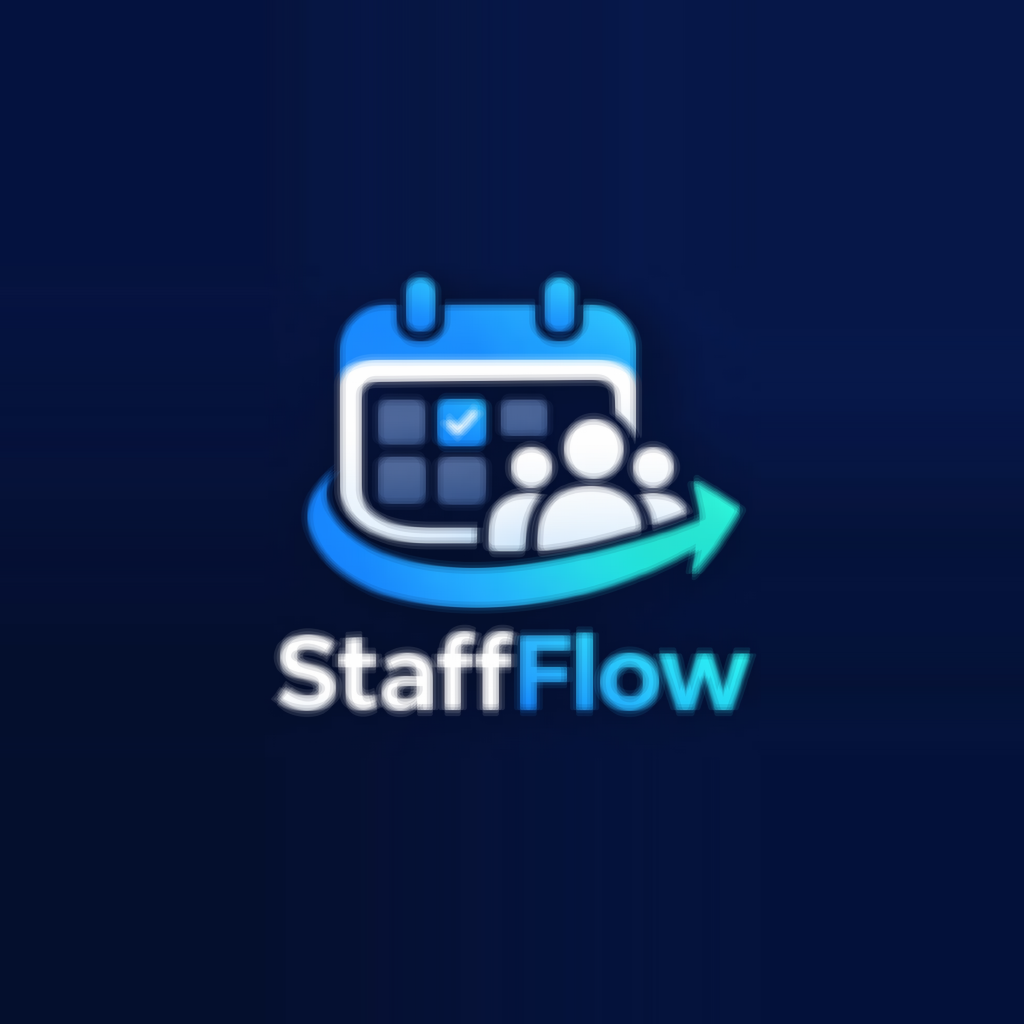
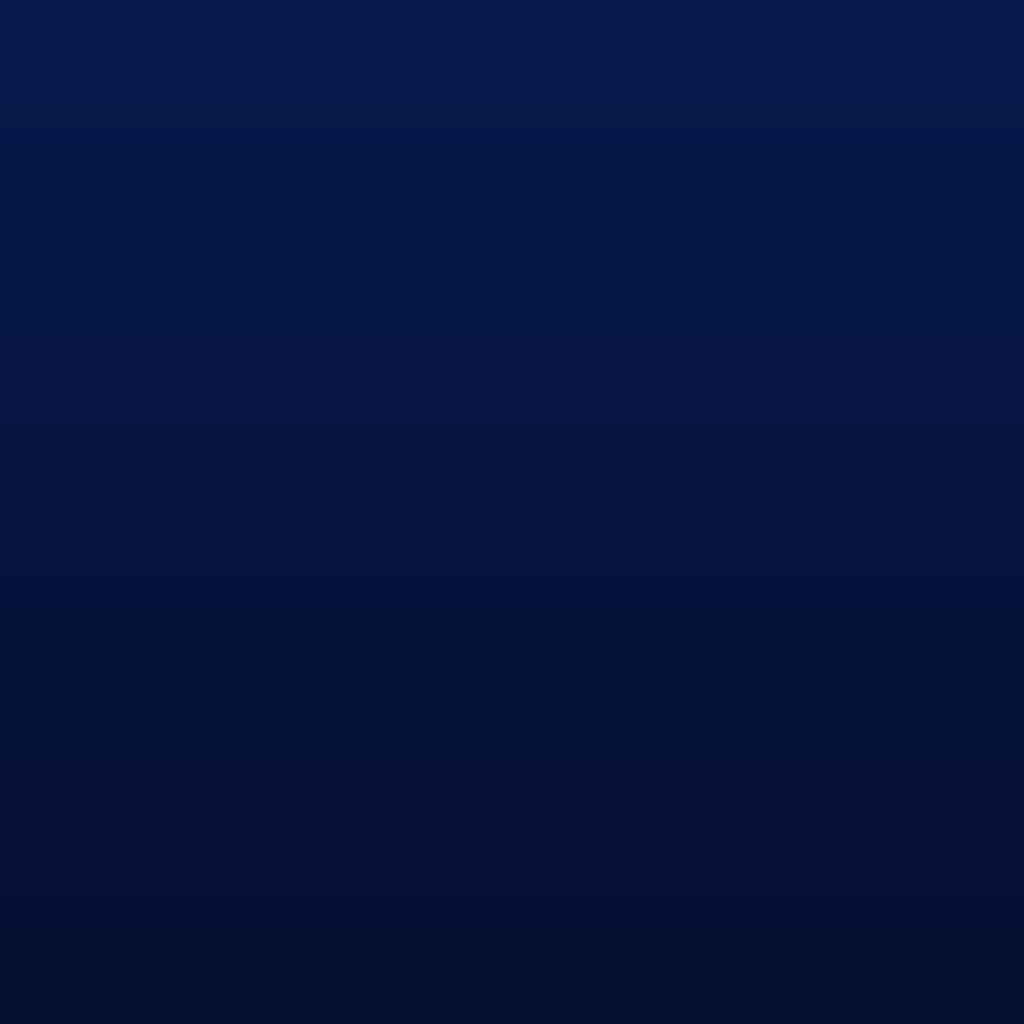
Icône Android : fond en dégradé uni et sans retrait du premier plan
flutter_launcher_icons rétrécissait le premier plan de 16 % par défaut,
ce qui laissait voir une copie du dessin contenue dans le fond. Le fond
ne contient plus que le dégradé bleu nuit ; retrait mis à 0.

Changed region(s): [[0.25, 0.25, 0.75, 0.7188]]

diff --git a/app/tool/make_icons.dart b/app/tool/make_icons.dart
@@ -78,21 +78,31 @@ void _save(String path, img.Image im) {
   print('  $path  ${im.width}×${im.height}');
 }
 
-/// Fond 1024 × 1024 : pour chaque ligne et colonne, la couleur moyenne du bord de [full],
-/// prolongée au-delà de la zone où le dessin est posé.
+/// Fond 1024 × 1024 : dégradé vertical bleu nuit, calé sur les couleurs du haut et du bas de
+/// [full] là où le dessin est posé, et prolongé au-dessus et en dessous.
 img.Image _background(img.Image full, {required int inset, required int side}) {
-  final scaled = img.copyResize(full, width: side, height: side, interpolation: img.Interpolation.average);
+  List<double> rowAverage(int y0, int y1) {
+    final sum = [0.0, 0.0, 0.0];
+    var n = 0;
+    for (var y = y0; y < y1; y++) {
+      for (var x = 0; x < full.width; x++) {
+        final p = full.getPixel(x, y);
+        sum[0] += p.r;
+        sum[1] += p.g;
+        sum[2] += p.b;
+        n++;
+      }
+    }
+    return [for (final s in sum) s / n];
+  }
+
+  final top = rowAverage(0, 12), bottom = rowAverage(full.height - 12, full.height);
   final bg = img.Image(width: 1024, height: 1024);
-  num at(int x, int y, int c) => scaled.getPixel(x.clamp(0, side - 1), y.clamp(0, side - 1))[c];
   for (var y = 0; y < 1024; y++) {
+    final t = (y - inset) / side;
+    final c = [for (var i = 0; i < 3; i++) (top[i] + (bottom[i] - top[i]) * t).round().clamp(0, 255)];
     for (var x = 0; x < 1024; x++) {
-      // Point du bord le plus proche dans le dessin, moyenné sur quelques pixels pour lisser.
-      final sx = (x - inset).clamp(0, side - 1), sy = (y - inset).clamp(0, side - 1);
-      final rgb = [
-        for (var c = 0; c < 3; c++)
-          ([for (var d = -6; d <= 6; d += 3) at(sx + d, sy, c) + at(sx, sy + d, c)].reduce((a, b) => a + b) / 10).round(),
-      ];
-      bg.setPixelRgb(x, y, rgb[0], rgb[1], rgb[2]);
+      bg.setPixelRgb(x, y, c[0], c[1], c[2]);
     }
   }
   return bg;
